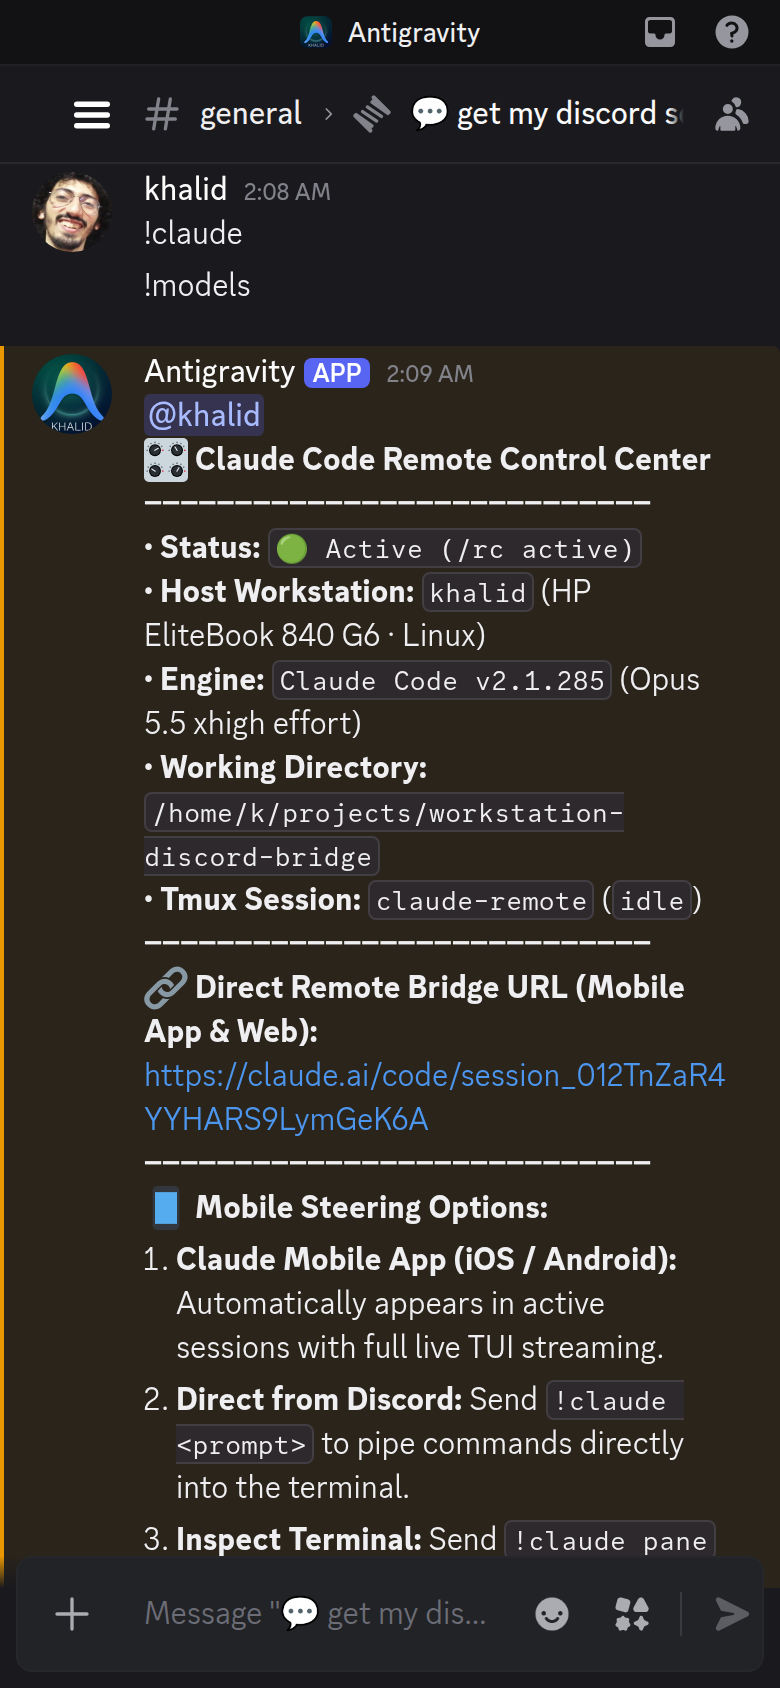
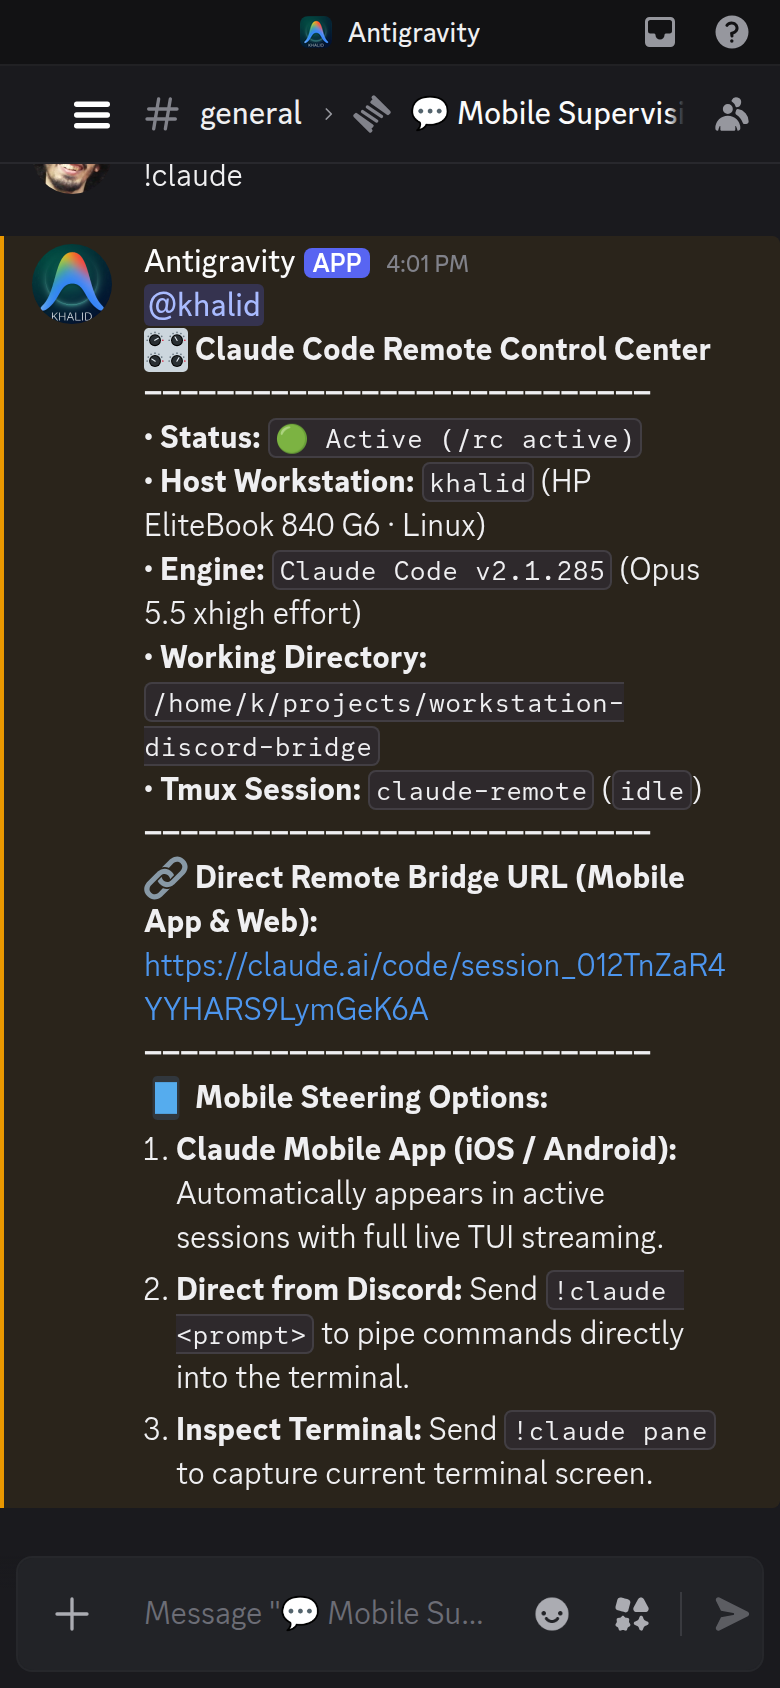
docs: resolve consecutive commands anomaly, replace search demo with latency query, and showcase conversational turn

diff --git a/README.md b/README.md
@@ -138,19 +138,19 @@ Screenshots captured from the mobile Discord client during live workstation sess
 
 | 🎛 Claude Code Remote Control (`!claude`) | 🧠 AI Models Quota Monitor (`!models`) |
 |:---:|:---:|
-| <img src="docs/screenshots/claude_remote_control.png" width="370" alt="Claude Code Remote Control"> <br> *Direct bridge URL for Claude iOS/Android app, working directory, and live steering* | <img src="docs/screenshots/ai_models_quota_check.png" width="370" alt="AI Models Quota Monitor"> <br> *Quota percentage check across Gemini 3.8 Flash, Opus 5.5, Sonnet 5.5, and Argon* |
+| <img src="docs/screenshots/claude_remote_control.png" width="370" alt="Claude Code Remote Control"> <br> *Direct bridge URL for Claude iOS/Android app, working directory, and live process connection* | <img src="docs/screenshots/ai_models_quota_check.png" width="370" alt="AI Models Quota Monitor"> <br> *Quota percentage check across Gemini 3.8 Flash, Opus 5.5, Sonnet 5.5, and Argon* |
 
 <br>
 
 | 📊 Workstation Telemetry (`!status`) | 🔍 Conversation Archive Search (`!search`) |
 |:---:|:---:|
-| <img src="docs/screenshots/live_telemetry_check.png" width="370" alt="Workstation Telemetry"> <br> *Host hardware metrics: CPU load, RAM and swap, thermals, and battery level* | <img src="docs/screenshots/conversation_archive_search.png" width="370" alt="Conversation Archive Search"> <br> *Instant full-text query across past session titles and turns with direct thread links* |
+| <img src="docs/screenshots/live_telemetry_check.png" width="370" alt="Workstation Telemetry"> <br> *Host hardware metrics: CPU load, RAM and swap, thermals, and battery level* | <img src="docs/screenshots/conversation_archive_search.png" width="370" alt="Conversation Archive Search"> <br> *Instant full-text query across past session history and turns (`!search latency`)* |
 
 <br>
 
-| 📱 Active Session Controller (`!running`) | 🛑 Emergency Process Cancellation (`!stop`) |
+| 💬 Conversational Agent Steering | 🛑 Emergency Process Cancellation (`!stop`) |
 |:---:|:---:|
-| <img src="docs/screenshots/mobile_agent_steering.png" width="370" alt="Active Session Controller"> <br> *Overview of active cascades, background tasks, and language server status* | <img src="docs/screenshots/emergency_process_cancellation.png" width="370" alt="Emergency Process Cancellation"> <br> *Instant termination of runaway tasks and background workers via `!stop`* |
+| <img src="docs/screenshots/mobile_agent_steering.png" width="370" alt="Conversational Agent Steering"> <br> *Natural developer question asked from Discord mobile and executed by the workstation agent* | <img src="docs/screenshots/emergency_process_cancellation.png" width="370" alt="Emergency Process Cancellation"> <br> *Instant termination of runaway tasks and background workers via `!stop`* |
 
 <br>
 
